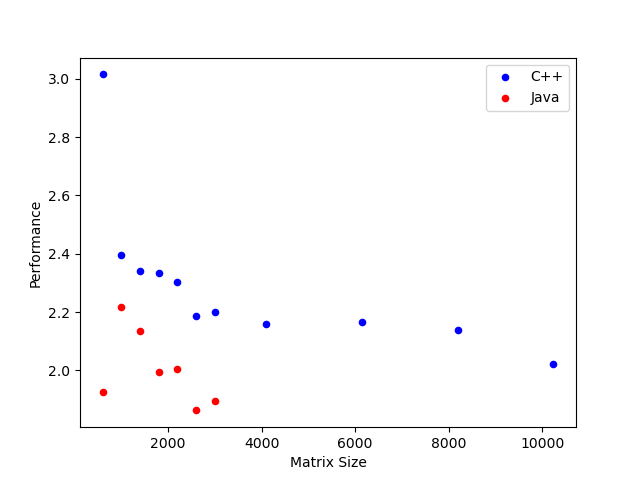
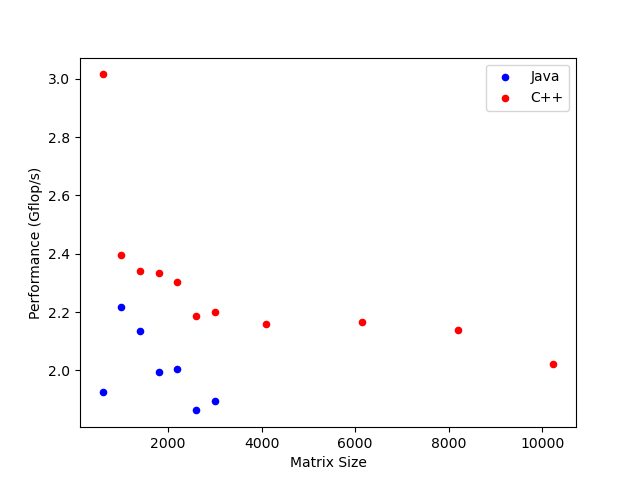
Add ylabels to plots

diff --git a/plotter.py b/plotter.py
@@ -24,14 +24,18 @@ df = df_1.append([df_2a, df_2b, df_3])
 def gflops(mat_size): return 2 * (mat_size ** 3) * 1e-9
 
 df['Performance'] = gflops(df['Matrix Size']) / df['Time']
-df['L1 DCM/gflop'] = df['L1 DCM'] / gflops(df['Matrix Size'])
-df['L2 DCM/gflop'] = df['L2 DCM'] / gflops(df['Matrix Size'])
-df['L1 DCM/m size'] = df['L1 DCM'] / df['Matrix Size']
+df['L1 DCM/Gflop'] = df['L1 DCM'] / gflops(df['Matrix Size'])
+df['L2 DCM/Gflop'] = df['L2 DCM'] / gflops(df['Matrix Size'])
+df['L1 DCM/Matrix Size'] = df['L1 DCM'] / df['Matrix Size']
 
 
+time_std = df.groupby(['Language', 'Matrix Size', 'Algorithm'], as_index=False).std()['Time']
 
 data = df.groupby(['Language', 'Matrix Size', 'Algorithm'], as_index=False).mean()
+
+data['Time STD'] = time_std
 data.reset_index()
+
 
 def algorithm_to_label(alg):
     labels = ['Column', 'Row']
@@ -48,6 +52,14 @@ def language_to_label(lang):
     if lang == 'java':
         return 'Java'
 
+def metric_to_label(metric):
+    if metric == 'Time':
+        return 'Time (s)'
+    if metric == 'Performance':
+        return 'Performance (Gflop/s)'
+
+    return metric
+
 
 def plot_algorithm_comparison(dataframe, comp_column, save_path):
     cpp_df = dataframe[['Language', 'Matrix Size', comp_column, 'Algorithm']][dataframe['Language'] == 'cpp']
@@ -57,7 +69,7 @@ def plot_algorithm_comparison(dataframe, comp_column, save_path):
     ax = None
 
     for alg, color in zip(algs, colors):
-        ax = cpp_df[cpp_df['Algorithm'] == alg].plot(x='Matrix Size', y=comp_column, ax=ax, label=algorithm_to_label(alg), kind='scatter', color=color)
+        ax = cpp_df[cpp_df['Algorithm'] == alg].plot(x='Matrix Size', y=comp_column, ax=ax, label=algorithm_to_label(alg), kind='scatter', color=color, ylabel=metric_to_label(comp_column))
 
     plt.savefig(save_path)
 
@@ -73,16 +85,15 @@ def plot_lang_comparison(dataframe, comp_column, alg, save_path):
     for lang, color in zip(langs, colors):
 
         ax = alg_df[alg_df['Language'] == lang].plot(
-            x='Matrix Size', y=comp_column, ax=ax, label=language_to_label(lang), kind='scatter', color=color)
+            x='Matrix Size', y=comp_column, ax=ax, label=language_to_label(lang), kind='scatter', color=color, ylabel=metric_to_label(comp_column))
 
     plt.savefig(save_path)
 
 
 plot_algorithm_comparison(data, 'Time', path.join(plots_dir, 'alg_comparison_time_c++.png'))
 plot_algorithm_comparison(data, 'Performance', path.join(plots_dir, 'alg_comparison_perf_c++.png'))
-plot_algorithm_comparison(data, 'L1 DCM/gflop', path.join(plots_dir, 'alg_comparison_l1dcm-gflop_c++.png'))
-plot_algorithm_comparison(data, 'L2 DCM/gflop', path.join(plots_dir, 'alg_comparison_l2dcm-gflop_c++.png'))
-plot_algorithm_comparison(data, 'L1 DCM/m size', path.join(plots_dir, 'alg_comparison_l1dcm-msize_c++.png'))
+plot_algorithm_comparison(data, 'L1 DCM/Gflop', path.join(plots_dir, 'alg_comparison_l1dcm-gflop_c++.png'))
+plot_algorithm_comparison(data, 'L2 DCM/Gflop', path.join(plots_dir, 'alg_comparison_l2dcm-gflop_c++.png'))
 plot_algorithm_comparison(data, 'L1 DCM', path.join(plots_dir, 'alg_comparison_l1dcm_c++.png'))
 plot_algorithm_comparison(data, 'L2 DCM', path.join(plots_dir, 'alg_comparison_l2dcm_c++.png'))
 plot_lang_comparison(data, 'Time', 1, path.join(plots_dir, 'alg_1_time'))
